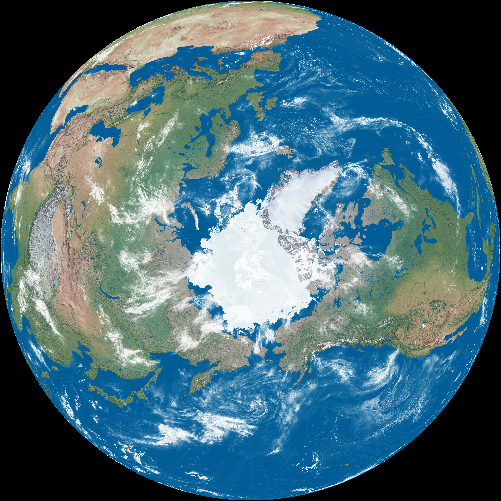
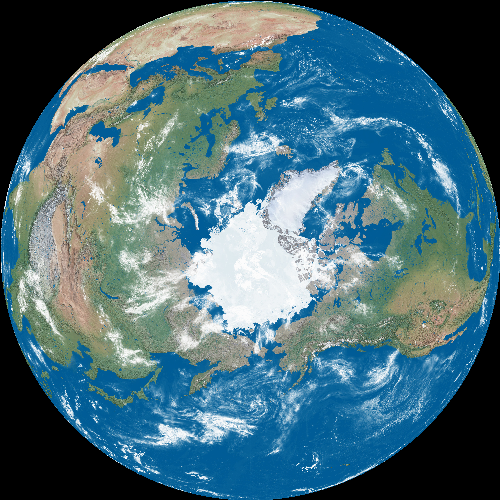
Making images 500x500 instead of 501x501

diff --git a/src/me/jessicaalohse/raytracer/images/surface_test/TwoTrianglesImage.java b/src/me/jessicaalohse/raytracer/images/surface_test/TwoTrianglesImage.java
@@ -8,7 +8,7 @@ import me.jessicaalohse.raytracer.utilities.RGB;
 
 public class TwoTrianglesImage {
 	public TwoTrianglesImage() {
-		int rowsColumns = 501;
+		int rowsColumns = 500;
 		long start = System.currentTimeMillis();
 		Image image = new Image(rowsColumns, rowsColumns);
 		Triangle triangleOne = new Triangle(new double[] { 100, 100, 0 }, new double[] { 350, 100, 0 },

diff --git a/src/me/jessicaalohse/raytracer/images/surface_test/TriangleImage.java b/src/me/jessicaalohse/raytracer/images/surface_test/TriangleImage.java
@@ -9,7 +9,7 @@ import me.jessicaalohse.raytracer.utilities.RGB;
 public class TriangleImage {
 
 	public TriangleImage() {
-		int rowsColumns = 501;
+		int rowsColumns = 500;
 		long start = System.currentTimeMillis();
 		Image image = new Image(rowsColumns, rowsColumns);
 		Triangle triangle = new Triangle(new double[] { 100, 100, 0 }, new double[] { 350, 100, 0 },

diff --git a/src/me/jessicaalohse/raytracer/images/color_tests/BlackAndWhiteImage.java b/src/me/jessicaalohse/raytracer/images/color_tests/BlackAndWhiteImage.java
@@ -8,7 +8,7 @@ import me.jessicaalohse.raytracer.utilities.RGB;
 
 public class BlackAndWhiteImage {
 	public BlackAndWhiteImage() {
-		int rowsColumns = 501;
+		int rowsColumns = 500;
 		long start = System.currentTimeMillis();
 		Image image = new Image(rowsColumns, rowsColumns);
 		Sphere sphere = new Sphere(250, 250, 0, 100.0f, new RGB(255, 255, 255), 0);

diff --git a/src/me/jessicaalohse/raytracer/images/surface_test/TwoSpheresImage.java b/src/me/jessicaalohse/raytracer/images/surface_test/TwoSpheresImage.java
@@ -8,7 +8,7 @@ import me.jessicaalohse.raytracer.utilities.RGB;
 
 public class TwoSpheresImage {
 	public TwoSpheresImage() {
-		int rowsColumns = 501;
+		int rowsColumns = 500;
 		long start = System.currentTimeMillis();
 		Image image = new Image(rowsColumns, rowsColumns);
 		Sphere sphereOne = new Sphere(150, 150, 0, 100.0f, new RGB(255, 255, 255), 0);

diff --git a/src/me/jessicaalohse/raytracer/images/color_tests/ColoredSphereImage.java b/src/me/jessicaalohse/raytracer/images/color_tests/ColoredSphereImage.java
@@ -8,7 +8,7 @@ import me.jessicaalohse.raytracer.utilities.RGB;
 
 public class ColoredSphereImage {
 	public ColoredSphereImage() {
-		int rowsColumns = 501;
+		int rowsColumns = 500;
 		long start = System.currentTimeMillis();
 		Image image = new Image(rowsColumns, rowsColumns);
 		Sphere sphere = new Sphere(250, 250, 0, 100.0f, new RGB(0, 255, 0), 0);

diff --git a/src/me/jessicaalohse/raytracer/images/surface_test/SphereImage.java b/src/me/jessicaalohse/raytracer/images/surface_test/SphereImage.java
@@ -9,7 +9,7 @@ import me.jessicaalohse.raytracer.utilities.RGB;
 public class SphereImage {
 
 	public SphereImage() {
-		int rowsColumns = 501;
+		int rowsColumns = 500;
 		long start = System.currentTimeMillis();
 		Image image = new Image(rowsColumns, rowsColumns);
 		Sphere sphere = new Sphere(250, 250, 0, 100.0f, new RGB(255, 255, 255), 0);

diff --git a/src/me/jessicaalohse/raytracer/images/light_tests/OneLightImage.java b/src/me/jessicaalohse/raytracer/images/light_tests/OneLightImage.java
@@ -10,7 +10,7 @@ import me.jessicaalohse.raytracer.utilities.Vector3D;
 
 public class OneLightImage {
 	public OneLightImage() {
-		int rowsColumns = 501;
+		int rowsColumns = 500;
 		long start = System.currentTimeMillis();
 		Image image = new Image(rowsColumns, rowsColumns);
 		RGB lightGray = new RGB(215, 215, 215);

diff --git a/src/me/jessicaalohse/raytracer/images/light_tests/NoLightImage.java b/src/me/jessicaalohse/raytracer/images/light_tests/NoLightImage.java
@@ -8,7 +8,7 @@ import me.jessicaalohse.raytracer.utilities.RGB;
 
 public class NoLightImage {
 	public NoLightImage() {
-		int rowsColumns = 501;
+		int rowsColumns = 500;
 		long start = System.currentTimeMillis();
 		Image image = new Image(rowsColumns, rowsColumns);
 		RGB lightGray = new RGB(215, 215, 215);

diff --git a/src/me/jessicaalohse/raytracer/images/texture_tests/MediumTextureImage.java b/src/me/jessicaalohse/raytracer/images/texture_tests/MediumTextureImage.java
@@ -9,7 +9,7 @@ import me.jessicaalohse.raytracer.utilities.RGB;
 
 public class MediumTextureImage {
 	public MediumTextureImage() {
-		int rowsColumns = 501;
+		int rowsColumns = 500;
 
 		long start = System.currentTimeMillis();
 		Image image = new Image(rowsColumns, rowsColumns);

diff --git a/src/me/jessicaalohse/raytracer/images/texture_tests/LargeTextureImage.java b/src/me/jessicaalohse/raytracer/images/texture_tests/LargeTextureImage.java
@@ -9,7 +9,7 @@ import me.jessicaalohse.raytracer.utilities.RGB;
 
 public class LargeTextureImage {
 	public LargeTextureImage() {
-		int rowsColumns = 501;
+		int rowsColumns = 500;
 
 		long start = System.currentTimeMillis();
 		Image image = new Image(rowsColumns, rowsColumns);

diff --git a/src/me/jessicaalohse/raytracer/images/texture_tests/SmallTextureImage.java b/src/me/jessicaalohse/raytracer/images/texture_tests/SmallTextureImage.java
@@ -9,7 +9,7 @@ import me.jessicaalohse.raytracer.utilities.RGB;
 
 public class SmallTextureImage {
 	public SmallTextureImage() {
-		int rowsColumns = 501;
+		int rowsColumns = 500;
 
 		long start = System.currentTimeMillis();
 		Image image = new Image(rowsColumns, rowsColumns);

diff --git a/src/me/jessicaalohse/raytracer/images/texture_tests/XSmallImage.java b/src/me/jessicaalohse/raytracer/images/texture_tests/XSmallImage.java
@@ -9,7 +9,7 @@ import me.jessicaalohse.raytracer.utilities.RGB;
 
 public class XSmallImage {
 public XSmallImage() {
-	int rowsColumns = 501;
+	int rowsColumns = 500;
 
 	long start = System.currentTimeMillis();
 	Image image = new Image(rowsColumns, rowsColumns);
